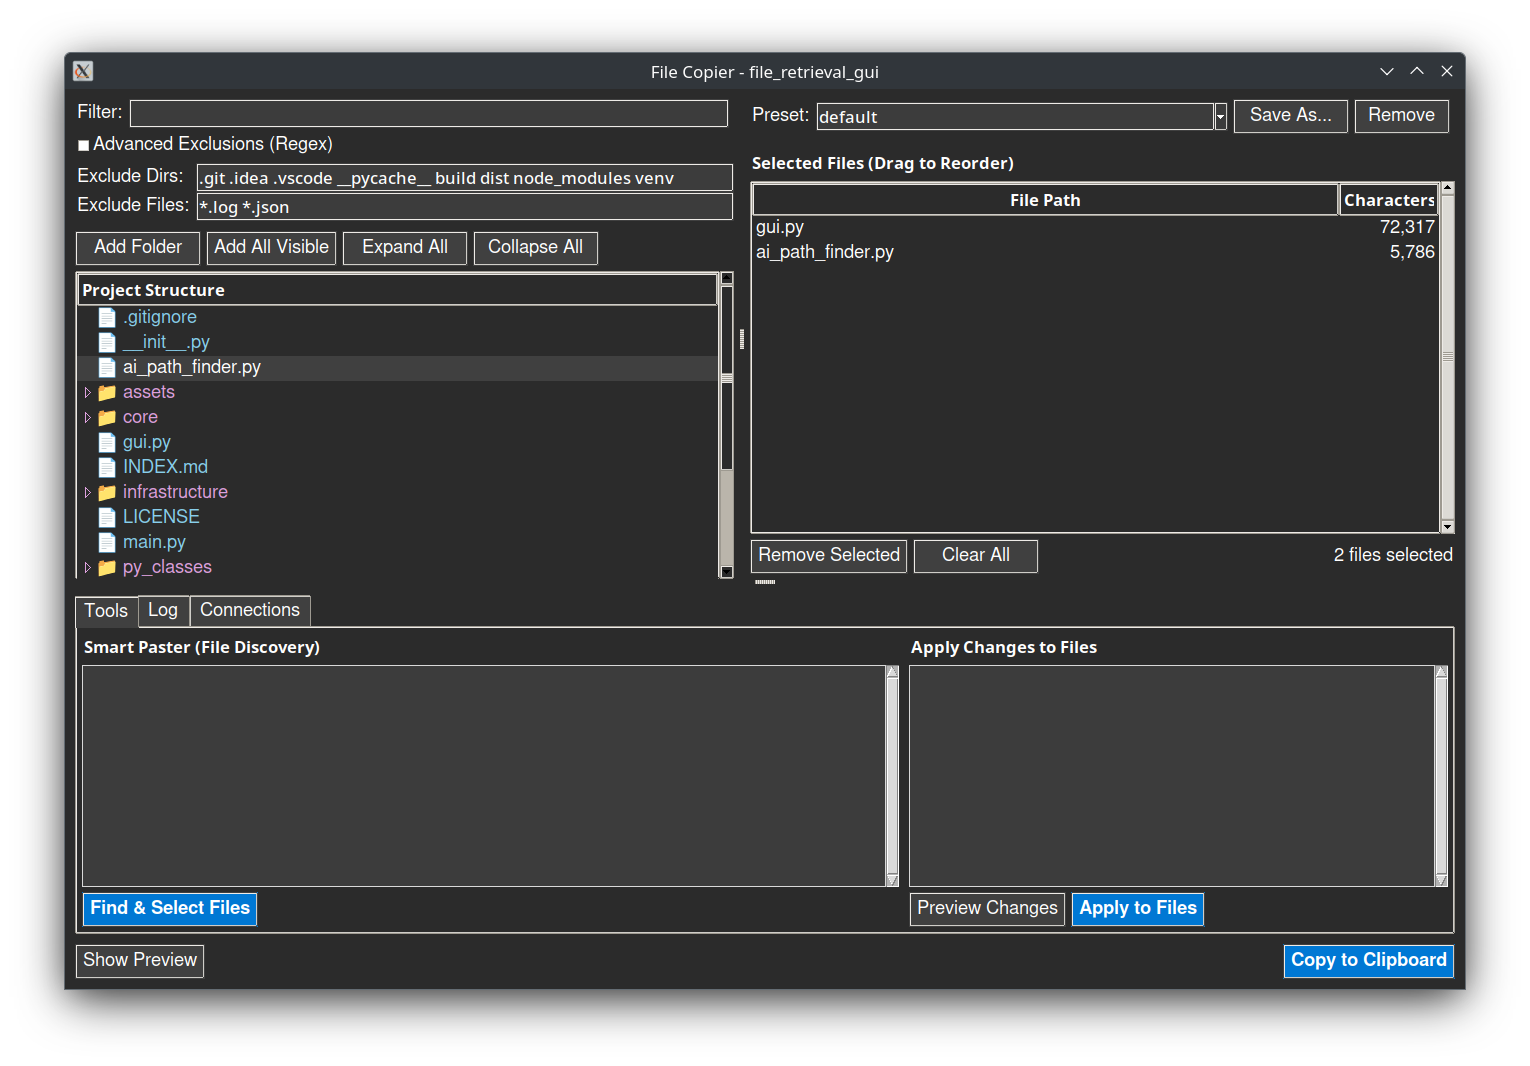
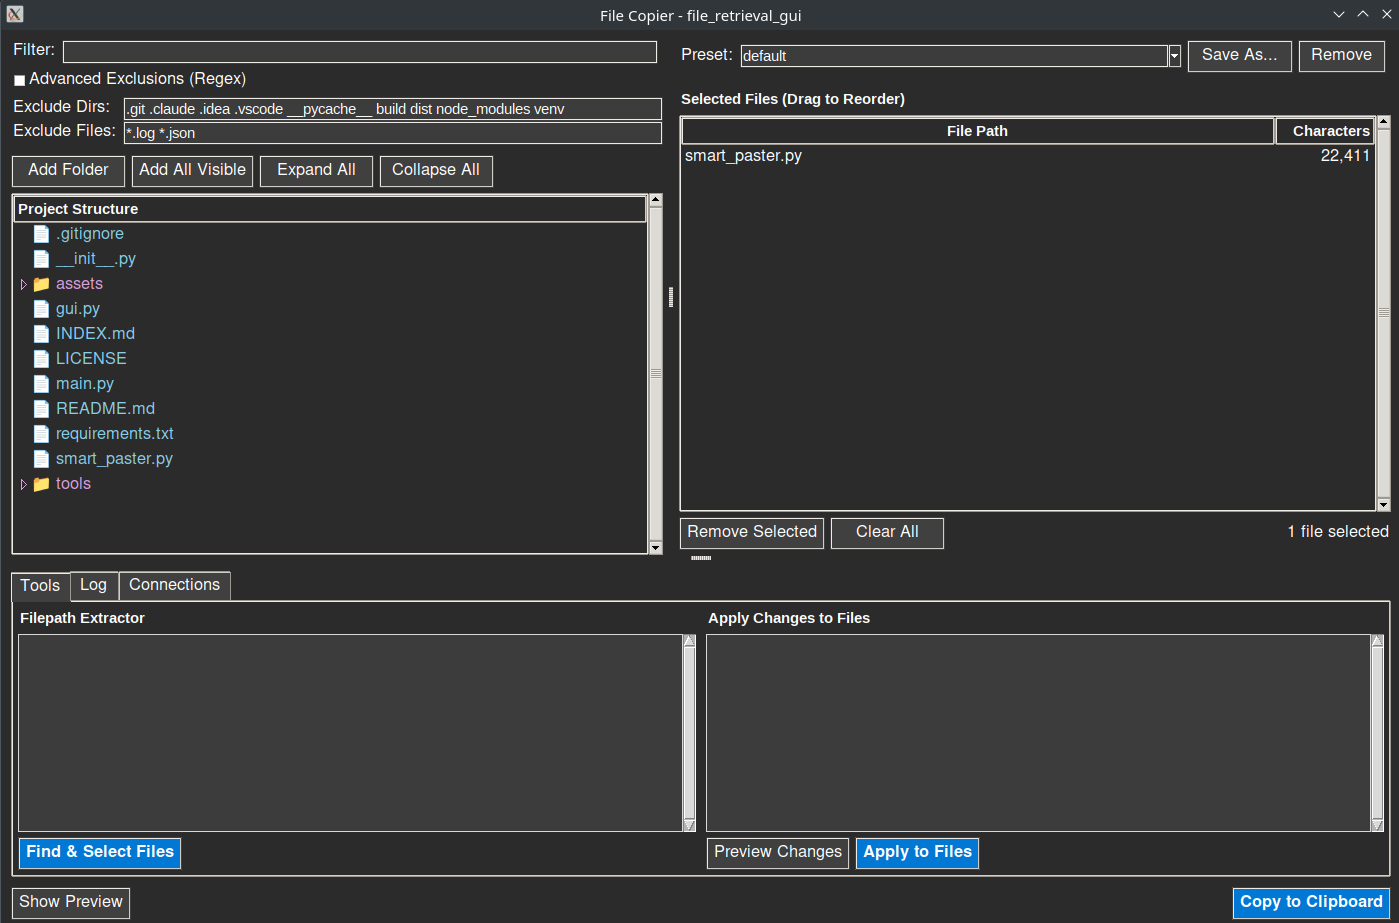
updated name and added demo image

diff --git a/gui.py b/gui.py
@@ -111,7 +111,7 @@ class FileCopierApp:
         self.connected_clients = set()
         # FIXED: Corrected type hint for websockets
         self.client_info = {}  # type: ignore
-        self.current_shared_string = "File Copier GUI is running, but no files have been selected yet."
+        self.current_shared_string = "File Retrieval GUI is running, but no files have been selected yet."
         self.websocket_enabled = True
         self.websocket_start_time: Optional[datetime] = None
         self.connections_refresh_job: Optional[str] = None
@@ -258,7 +258,7 @@ class FileCopierApp:
         self.preview_text.config(state=tk.DISABLED)
 
     def _setup_styles(self):
-        self.root.title(f"File Copier - {os.path.basename(self.directory)}")
+        self.root.title(f"File Retrieval GUI - {os.path.basename(self.directory)}")
         self.root.geometry("1400x900")
         self.root.configure(bg=DARK_BG)
         style = ttk.Style()

diff --git a/tools/getuserfiles.py b/tools/getuserfiles.py
@@ -2,7 +2,7 @@
 """
 File Provider Tool with Dynamic WebSocket Discovery
 
-This tool connects to the File Copier GUI to retrieve the current file selection
+This tool connects to the File Retrieval GUI to retrieve the current file selection
 and their contents. It uses a multi-tier discovery mechanism to find the active
 WebSocket server automatically.
 

diff --git a/__init__.py b/__init__.py
@@ -1,5 +1,5 @@
 """
-File Copier Tool
+File Retrieval GUI
 
 A GUI and CLI tool for intelligent file discovery and clipboard management.
 Features smart file path detection and AI-powered file finding capabilities.
